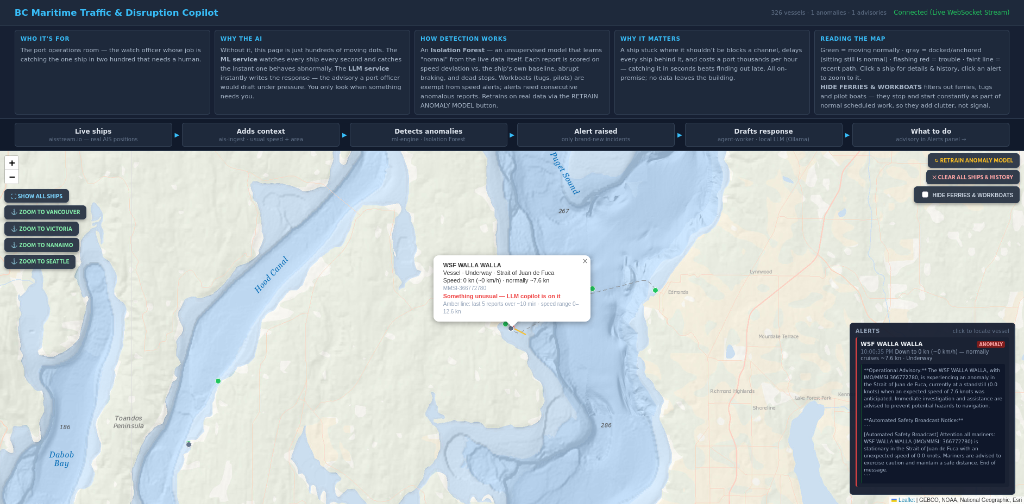
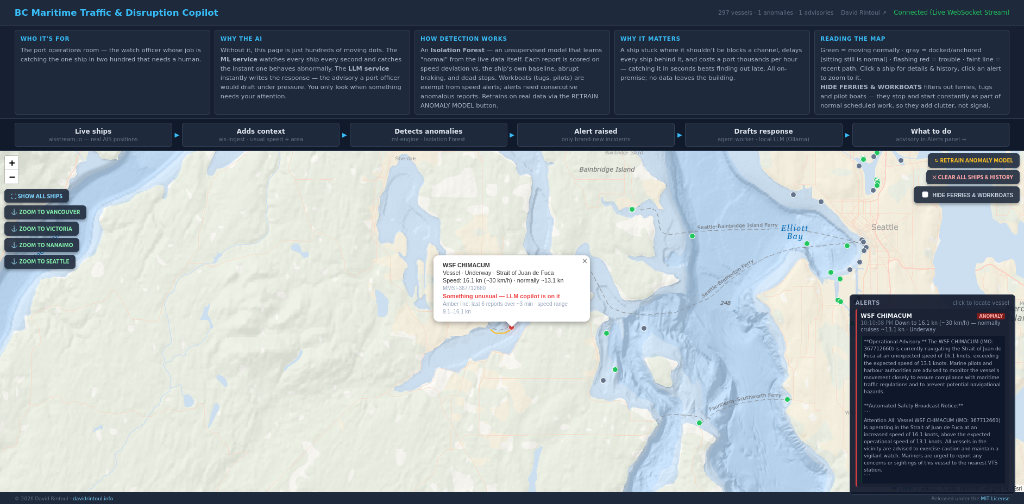
Update README screenshots and add footer with attribution and license info

diff --git a/services/ml-engine/static/index.html b/services/ml-engine/static/index.html
@@ -45,6 +45,8 @@
         #ferry-toggle input { margin-right: 6px; cursor: pointer; }
         #ferry-toggle label { cursor: pointer; }
         #toast { position: absolute; bottom: 30px; left: 20px; z-index: 2000; background: rgba(20, 30, 48, 0.95); color: #e2e8f0; border: 1px solid #38bdf8; border-radius: 8px; padding: 9px 16px; font-size: 0.78rem; display: none; box-shadow: 0 4px 10px rgba(0,0,0,0.4); max-width: 320px; }
+        footer { padding: 5px 2rem; background: #1e293b; border-top: 1px solid #334155; font-size: 0.68rem; color: #64748b; display: flex; justify-content: space-between; }
+        footer a { color: #7dd3fc; text-decoration: none; }
         .pipeline { display: flex; align-items: center; gap: 6px; padding: 0.55rem 2rem; background: #111a2b; border-bottom: 1px solid #334155; flex-wrap: wrap; }
         .node { flex: 1; text-align: center; background: #1e293b; border: 1px solid #334155; border-radius: 6px; padding: 7px 8px; font-size: 0.9rem; line-height: 1.35; }
         .node .label { font-weight: 700; color: #e2e8f0; }
@@ -57,12 +59,13 @@
         <h1>BC Maritime Traffic & Disruption Copilot</h1>
         <div style="display: flex; align-items: center;">
             <span id="stats"></span>
+            <a href="https://davidrintoul.info" target="_blank" rel="noopener" style="font-size: 0.8rem; color: #64748b; text-decoration: none; margin-right: 16px;">David R. Rintoul &#8599;</a>
             <span id="status" style="font-size: 0.875rem; color: #94a3b8;">Connecting via WebSocket...</span>
         </div>
     </header>
     <div class="tiles">
         <div class="tile"><h3>WHO IT'S FOR</h3>The port operations room — the watch officer whose job is catching the one ship in two hundred that needs a human.</div>
-        <div class="tile"><h3>WHY THE AI</h3>Without it, this page is just hundreds of moving dots. The <b>ML service</b> watches every ship every second and catches the instant one behaves abnormally. The <b>LLM service</b> instantly writes the response — the advisory a port officer would draft under pressure. You only look when something needs you.</div>
+        <div class="tile"><h3>WHY THE AI</h3>Without it, this page is just hundreds of moving dots. The <b>ML service</b> watches every ship every second and catches the instant one behaves abnormally. The <b>LLM service</b> instantly writes the response — the advisory a port officer would draft under pressure. You only look when something needs your attention.</div>
         <div class="tile"><h3>HOW DETECTION WORKS</h3>An <b>Isolation Forest</b> — an unsupervised model that learns "normal" from the live data itself. Each report is scored on speed deviation vs. the ship's own baseline, abrupt braking, and dead stops. Workboats (tugs, pilots) are exempt from speed alerts; alerts need consecutive anomalous reports. Retrains on real data via the RETRAIN ANOMALY MODEL button.</div>
         <div class="tile"><h3>WHY IT MATTERS</h3>A ship stuck where it shouldn't be blocks a channel, delays every ship behind it, and costs a port thousands per hour — catching it in seconds beats finding out late. All on-premise; no data leaves the building.</div>
         <div class="tile"><h3>READING THE MAP</h3>Green = moving normally &middot; gray = docked/anchored (sitting still is normal) &middot; flashing red = trouble &middot; faint line = recent path. Click a ship for details &amp; history, click an alert to zoom to it.<br><b>HIDE FERRIES &amp; WORKBOATS</b> filters out ferries, tugs and pilot boats — they stop and start constantly as part of normal scheduled work, so they add clutter, not signal.</div>
@@ -456,5 +459,9 @@
 
         connectWebSocket();
     </script>
+    <footer>
+        <span>&copy; 2026 David R. Rintoul &middot; <a href="https://davidrintoul.info" target="_blank" rel="noopener">davidrintoul.info</a></span>
+        <span>Released under the <a href="https://opensource.org/licenses/MIT" target="_blank" rel="noopener">MIT License</a></span>
+    </footer>
 </body>
 </html>

diff --git a/README.md b/README.md
@@ -36,11 +36,22 @@ authorities:
 
 ![BC Maritime Copilot Dashboard](docs/dashboard-screenshot.png)
 
-*A live anomaly: the WSF WALLA WALLA dropped to 0 kn in the Strait of Juan de Fuca —
-the ML service flagged it within seconds and the LLM agent drafted the operational
-advisory shown in the Alerts panel.*
+*A live anomaly: the WSF CHIMACUM deviated from its own speed baseline in the Strait
+of Juan de Fuca. The ML service flagged it and the LLM agent drafted the advisory
+shown in the Alerts panel — click an alert to fly to the vessel.*
 
-![Anomaly alert with LLM advisory](docs/alert-screenshot.png)
+![Anomaly alert on the map](docs/alert-screenshot.png)
+
+![Closeup of alert with LLM advisory](docs/alert-closeup.png)
+
+> **Note:** WSF CHIMACUM is a Washington State Ferry, and ferries start and stop
+> constantly as part of scheduled service — so this alert is a good *demo*, not
+> necessarily something to worry about. That's exactly why the
+> **HIDE FERRIES & WORKBOATS** toggle exists: ferries, tugs, pilot boats and other
+> vessels that stop by design can be filtered from the map and alerts panel while
+> still being tracked underneath.
+
+---
 
 ---
 
